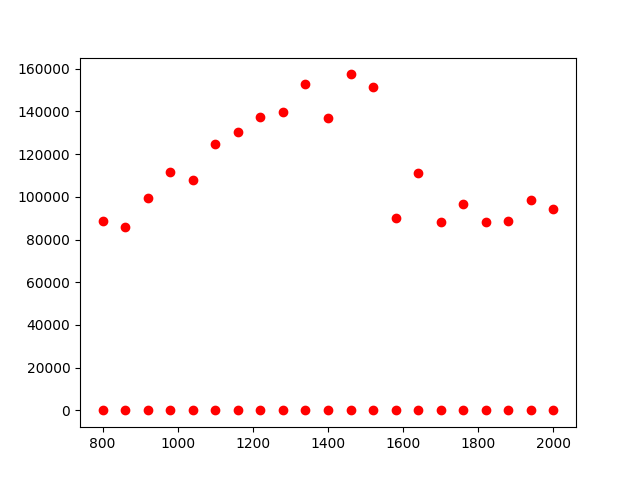
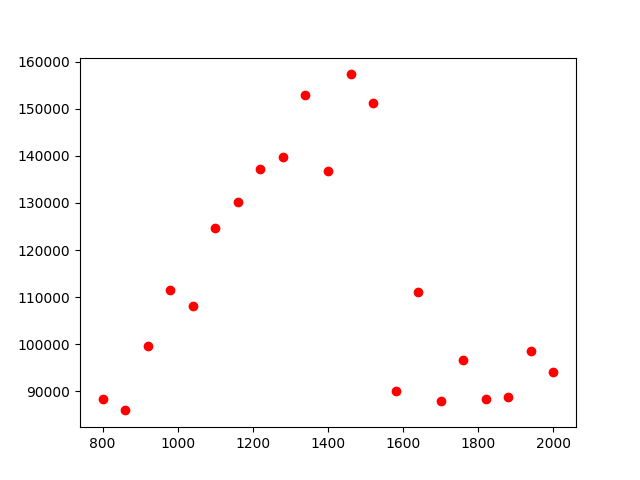
removing bad graphs

diff --git a/plot_attack.py b/plot_attack.py
@@ -17,10 +17,15 @@ for file_name in analyzer.get_file_names():
     movie_id = int(splits[0])
     bandwidth = int(splits[1])
 
+    # ignore value if its too small to be possible
+    value = analyzer.get_capture_statistics()[file_name].get_throughput()
+    if value < 50000:
+        continue
+
     # add to big result dictionary
     lookup.setdefault(movie_id, {})
     lookup[movie_id].setdefault(bandwidth, [])
-    lookup[movie_id][bandwidth].append(analyzer.get_capture_statistics()[file_name].get_throughput())
+    lookup[movie_id][bandwidth].append(value)
 
 # plot bandwidth, video_size per movie
 for movie_id in lookup:
@@ -62,6 +67,7 @@ for movie_id in lookup:
 plt.legend(loc=(1.04, 0))
 plt.tight_layout()
 plt.subplots_adjust(right=0.75)
+plt.figure(figsize=(7, 7))
 
 # save
 filename = hashlib.md5(movie_ids.encode()).hexdigest()
